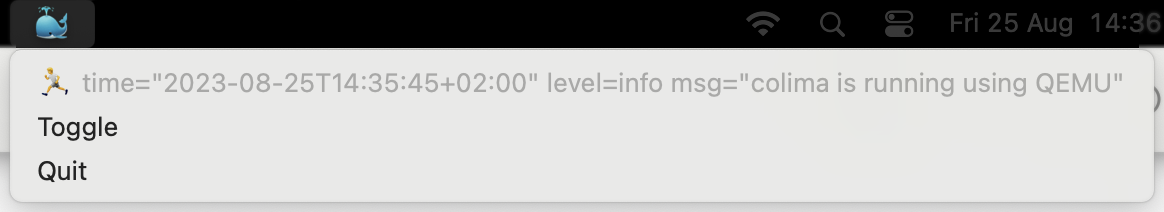
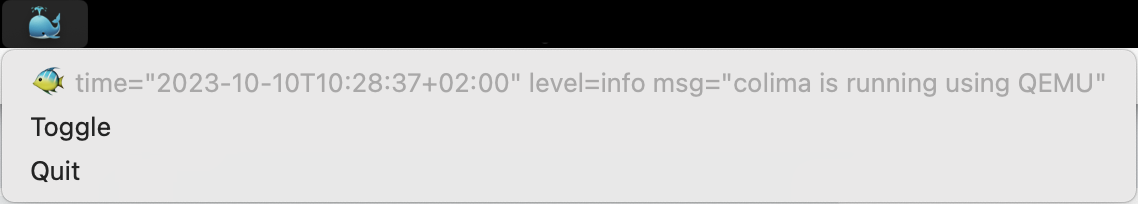
feat: simple queued toggles (#1)
* feat(wip): non-blocking toggle button & -v mode

* chore: ignore part of markdownlint

* chore: remove unused ctx

* feat: improved non-blocking naive toggle

* fix: add forgotten `__init__.py`

* chore: less lines

* chore: small line order change

* chore: code reorganization & aquatic icons

* chore: update README

* chore: update image in README

diff --git a/kalimba/kalimba.py b/kalimba/kalimba.py
@@ -5,76 +5,154 @@ A simple Menu Bar app to control your colimba status.
 import rumps
 import subprocess
 import logging as l
+from concurrent.futures import ThreadPoolExecutor
 
 l.basicConfig()
 logger = l.getLogger(__name__)
-# TODO(backlog): make log level configurable
-logger.setLevel(l.DEBUG)
+
+
+class KalimbaIcons:
+    WHALE = "🐳"
+    LOOKING = "👀"
+    SLEEP = "🐚"
+    RUN = "🐠"
+    BROKEN = "🙊"
+    TUNE = "🎶"
+
+
+class KalimbaMessages:
+    APP_TITLE = "Kalimba"
+    APP_STARTING = f"Starting the kalimba app... {KalimbaIcons.TUNE}"
+    COLIMA_RUNNING = "colima is running"
+    COLIMA_STARTING = "Starting ..."
+    COLIMA_STOPPING = "Stopping ..."
+    FAILED_TOGGLE = "failed to toggle colima..."
+    FAILED_STATUS = "failed to get status..."
+
+
+class KalimbaThreadPoolExecutor(ThreadPoolExecutor):
+    pass
 
 
 class StatusMenuItem(rumps.MenuItem):
     def __init__(self):
-        super(StatusMenuItem, self).__init__("👀 status")
+        super(StatusMenuItem, self).__init__(f"${KalimbaIcons.LOOKING} status")
+
+
+class ToggleMenuItem(rumps.MenuItem):
+    DEFAULT_TITLE = "Toggle"
+
+    def __init__(self):
+        super(ToggleMenuItem, self).__init__(self.DEFAULT_TITLE)
+
+    def set_starting(self) -> None:
+        self.title = KalimbaMessages.COLIMA_STARTING
+
+    def set_stopping(self) -> None:
+        self.title = KalimbaMessages.COLIMA_STOPPING
+
+    def reset(self) -> None:
+        self.title = self.DEFAULT_TITLE
+
+
+class ColimaCli:
+    __cli__ = "colima"
+
+    @classmethod
+    def get_status(cls) -> tuple:
+        opts = dict(text=True, check=False, capture_output=True)
+        result = subprocess.run([cls.__cli__, "status"], **opts)
+        output = result.stdout or result.stderr
+        output_lines = output.splitlines()
+        logger.debug(output_lines)
+        status_title = output_lines[0]
+        return status_title, output_lines[1:]
+
+    @classmethod
+    def start_engine(cls) -> bool:
+        cls.__toggle_engine("start")
+
+    @classmethod
+    def stop_engine(cls) -> bool:
+        cls.__toggle_engine("stop")
+
+    @classmethod
+    def __toggle_engine(cls, cmd: str) -> None:
+        result = subprocess.run([cls.__cli__, cmd])
+        result.check_returncode()
 
 
 class KalimbaMenuBarApp(rumps.App):
     __colima_running = False
+    __colima_cli = ColimaCli
 
-    def __init__(self):
-        super(KalimbaMenuBarApp, self).__init__("Kalimba", "🐳")
+    @staticmethod
+    def prepare_cli_pool() -> KalimbaThreadPoolExecutor:
+        return KalimbaThreadPoolExecutor(max_workers=1)
+
+    def __init__(self, colima_cli_pool: KalimbaThreadPoolExecutor):
+        super(KalimbaMenuBarApp, self).__init__(
+            KalimbaMessages.APP_TITLE, KalimbaIcons.WHALE
+        )
+        self.__colima_cli_single_pool = colima_cli_pool
         self.__status_menu = StatusMenuItem()
-        self.menu = [self.__status_menu, "Toggle"]
+        self.__toggle_menu = ToggleMenuItem()
+        self.menu = [self.__status_menu, self.__toggle_menu]
 
-    @rumps.clicked("Toggle")
-    def start(self, _):
-        # TODO(tech-debt): make this call not-blocking but thread safe
-        cmd = self.__get_colima_trigger_cmd()
-        self.__toggle_colima(cmd)
-
-    # TODO(backlog): make the timer configurable
     @rumps.timer(30)
-    def check_status(self, _):
+    def check_status(self, _) -> None:
+        self.__check_status_handler()
+
+    def __check_status_handler(self) -> None:
         try:
-            result = subprocess.run(
-                ["colima", "status"],
-                text=True,
-                check=False,
-                capture_output=True,
-            )
-            output = result.stdout or result.stderr
-            logger.debug(output.splitlines())
-            status_title = output.splitlines()[0]
-            colima_running = "colima is running" in status_title
-            status_icon = "🏃" if colima_running else "😴"
+            status_title, _ = self.__colima_cli.get_status()
+            colima_running = KalimbaMessages.COLIMA_RUNNING in status_title
+            status_icon = KalimbaIcons.RUN if colima_running else KalimbaIcons.SLEEP
             self.__update_status_menu_title(status_title, status_icon)
             self.__update_colima_run_status(colima_running)
         except Exception as error:
             logger.error(error)
-            self.__update_status_menu_title("failed to get status...", "🤕")
+            alert_args = (KalimbaMessages.FAILED_STATUS, KalimbaIcons.BROKEN)
+            self.__update_status_menu_title(*alert_args)
+            self.__update_colima_run_status(False)
 
-    def __update_status_menu_title(self, title: str, icon: str):
-        self.__status_menu.title = icon + " " + title
+    @rumps.clicked(ToggleMenuItem.DEFAULT_TITLE)
+    def queued_toggle(self, _) -> None:
+        self.__colima_cli_single_pool.submit(self.__toggle_handler)
 
-    def __update_colima_run_status(self, colima_running: bool):
-        self.__colima_running = colima_running
-
-    def __get_colima_trigger_cmd(self) -> str:
-        return "stop" if self.__colima_running else "start"
-
-    def __toggle_colima(self, cmd: str):
+    def __toggle_handler(self) -> None:
         try:
-            result = subprocess.run(["colima", cmd])
-            result.check_returncode()
+            if self.__colima_running:
+                self.__toggle_menu.set_stopping()
+                self.__colima_cli.stop_engine()
+                self.__update_colima_run_status(False)
+            else:
+                self.__toggle_menu.set_starting()
+                self.__colima_cli.start_engine()
+                self.__update_colima_run_status(True)
         except Exception as error:
             logger.error(error)
-            rumps.alert("failed to toggle colima...", "🤕")
+            alert_args = (KalimbaMessages.FAILED_TOGGLE, KalimbaIcons.BROKEN)
+            rumps.alert(*alert_args)
+            self.__update_status_menu_title(*alert_args)
+        finally:
+            self.__toggle_menu.reset()
+
+    def __update_status_menu_title(self, title: str, icon: str) -> None:
+        self.__status_menu.title = icon + " " + title
+
+    def __update_colima_run_status(self, colima_running: bool) -> None:
+        self.__colima_running = colima_running
 
 
 # mem(docs-link): update README if this changes.
-def run_kalimba():
-    logger.info('Starting the kalimba app... 🎶')
-    KalimbaMenuBarApp().run()
+def run_kalimba(verbose=False):
+    logger.setLevel(l.DEBUG if verbose else l.INFO)
+    logger.info(KalimbaMessages.APP_STARTING)
+
+    with KalimbaMenuBarApp.prepare_cli_pool() as pool:
+        KalimbaMenuBarApp(pool).run()
 
 
 if __name__ == "__main__":
-    run_kalimba()
+    run_kalimba(verbose=True)

diff --git a/kalimba/cli.py b/kalimba/cli.py
@@ -10,14 +10,14 @@ logger.setLevel(l.INFO)
 APP_NAME = "kalimba"
 
 
-def __run_detached_kalimba():
+def __run_detached_kalimba(*_):
     l.info(f"starting {APP_NAME} in detached mode")
     raise NotImplementedError("Sorry... this is not yet implemented")
 
 
-def __run_foreground_kalimba():
+def __run_foreground_kalimba(verbose: bool):
     l.info(f"starting {APP_NAME} in foreground mode")
-    run_kalimba()
+    run_kalimba(verbose=verbose)
 
 
 @click.command()
@@ -26,12 +26,17 @@ def __run_foreground_kalimba():
     default=False,
     help="Run the Kalimba process in a detached (sub-process) or foreground mode",
 )
-def start(detached: bool):
+@click.option(
+    "-v",
+    "--verbose",
+    is_flag=True,
+    default=False,
+    help="Run the Kalimba process with extended logging",
+)
+def start(detached: bool, verbose: bool):
     """Simple starter for Kalimba"""
-    if detached:
-        __run_detached_kalimba()
-    else:
-        __run_foreground_kalimba()
+    runner = __run_detached_kalimba if detached else __run_foreground_kalimba
+    runner(verbose)
 
 
 if __name__ == "__main__":

diff --git a/README.md b/README.md
@@ -20,6 +20,13 @@ INFO:kalimba.kalimba:Starting the kalimba app... 🎶
 >
 > ![kalimba-menu-bar](docs/assets//kalimba-basic.png)
 
+### Getting `kalimba` help
+
+```bash
+$ kalimba --help
+Usage: kalimba [OPTIONS] ...
+```
+
 ## Installation
 
 ### Give it a local try
@@ -31,7 +38,7 @@ poetry install # installs kalimba in poetry's environment
 poetry run kalimba --help # shows some tips-and-tricks
 poetry run kalimba # starts the app
 ```
-
+<!-- markdownlint-disable MD033 -->
 <details>
 <summary><i>More temporary installation options 👀</i></summary>
 
@@ -74,3 +81,4 @@ poetry run kalimba # starts the app
     ```
 
 </details>
+<!-- markdownlint-enable MD033 -->
